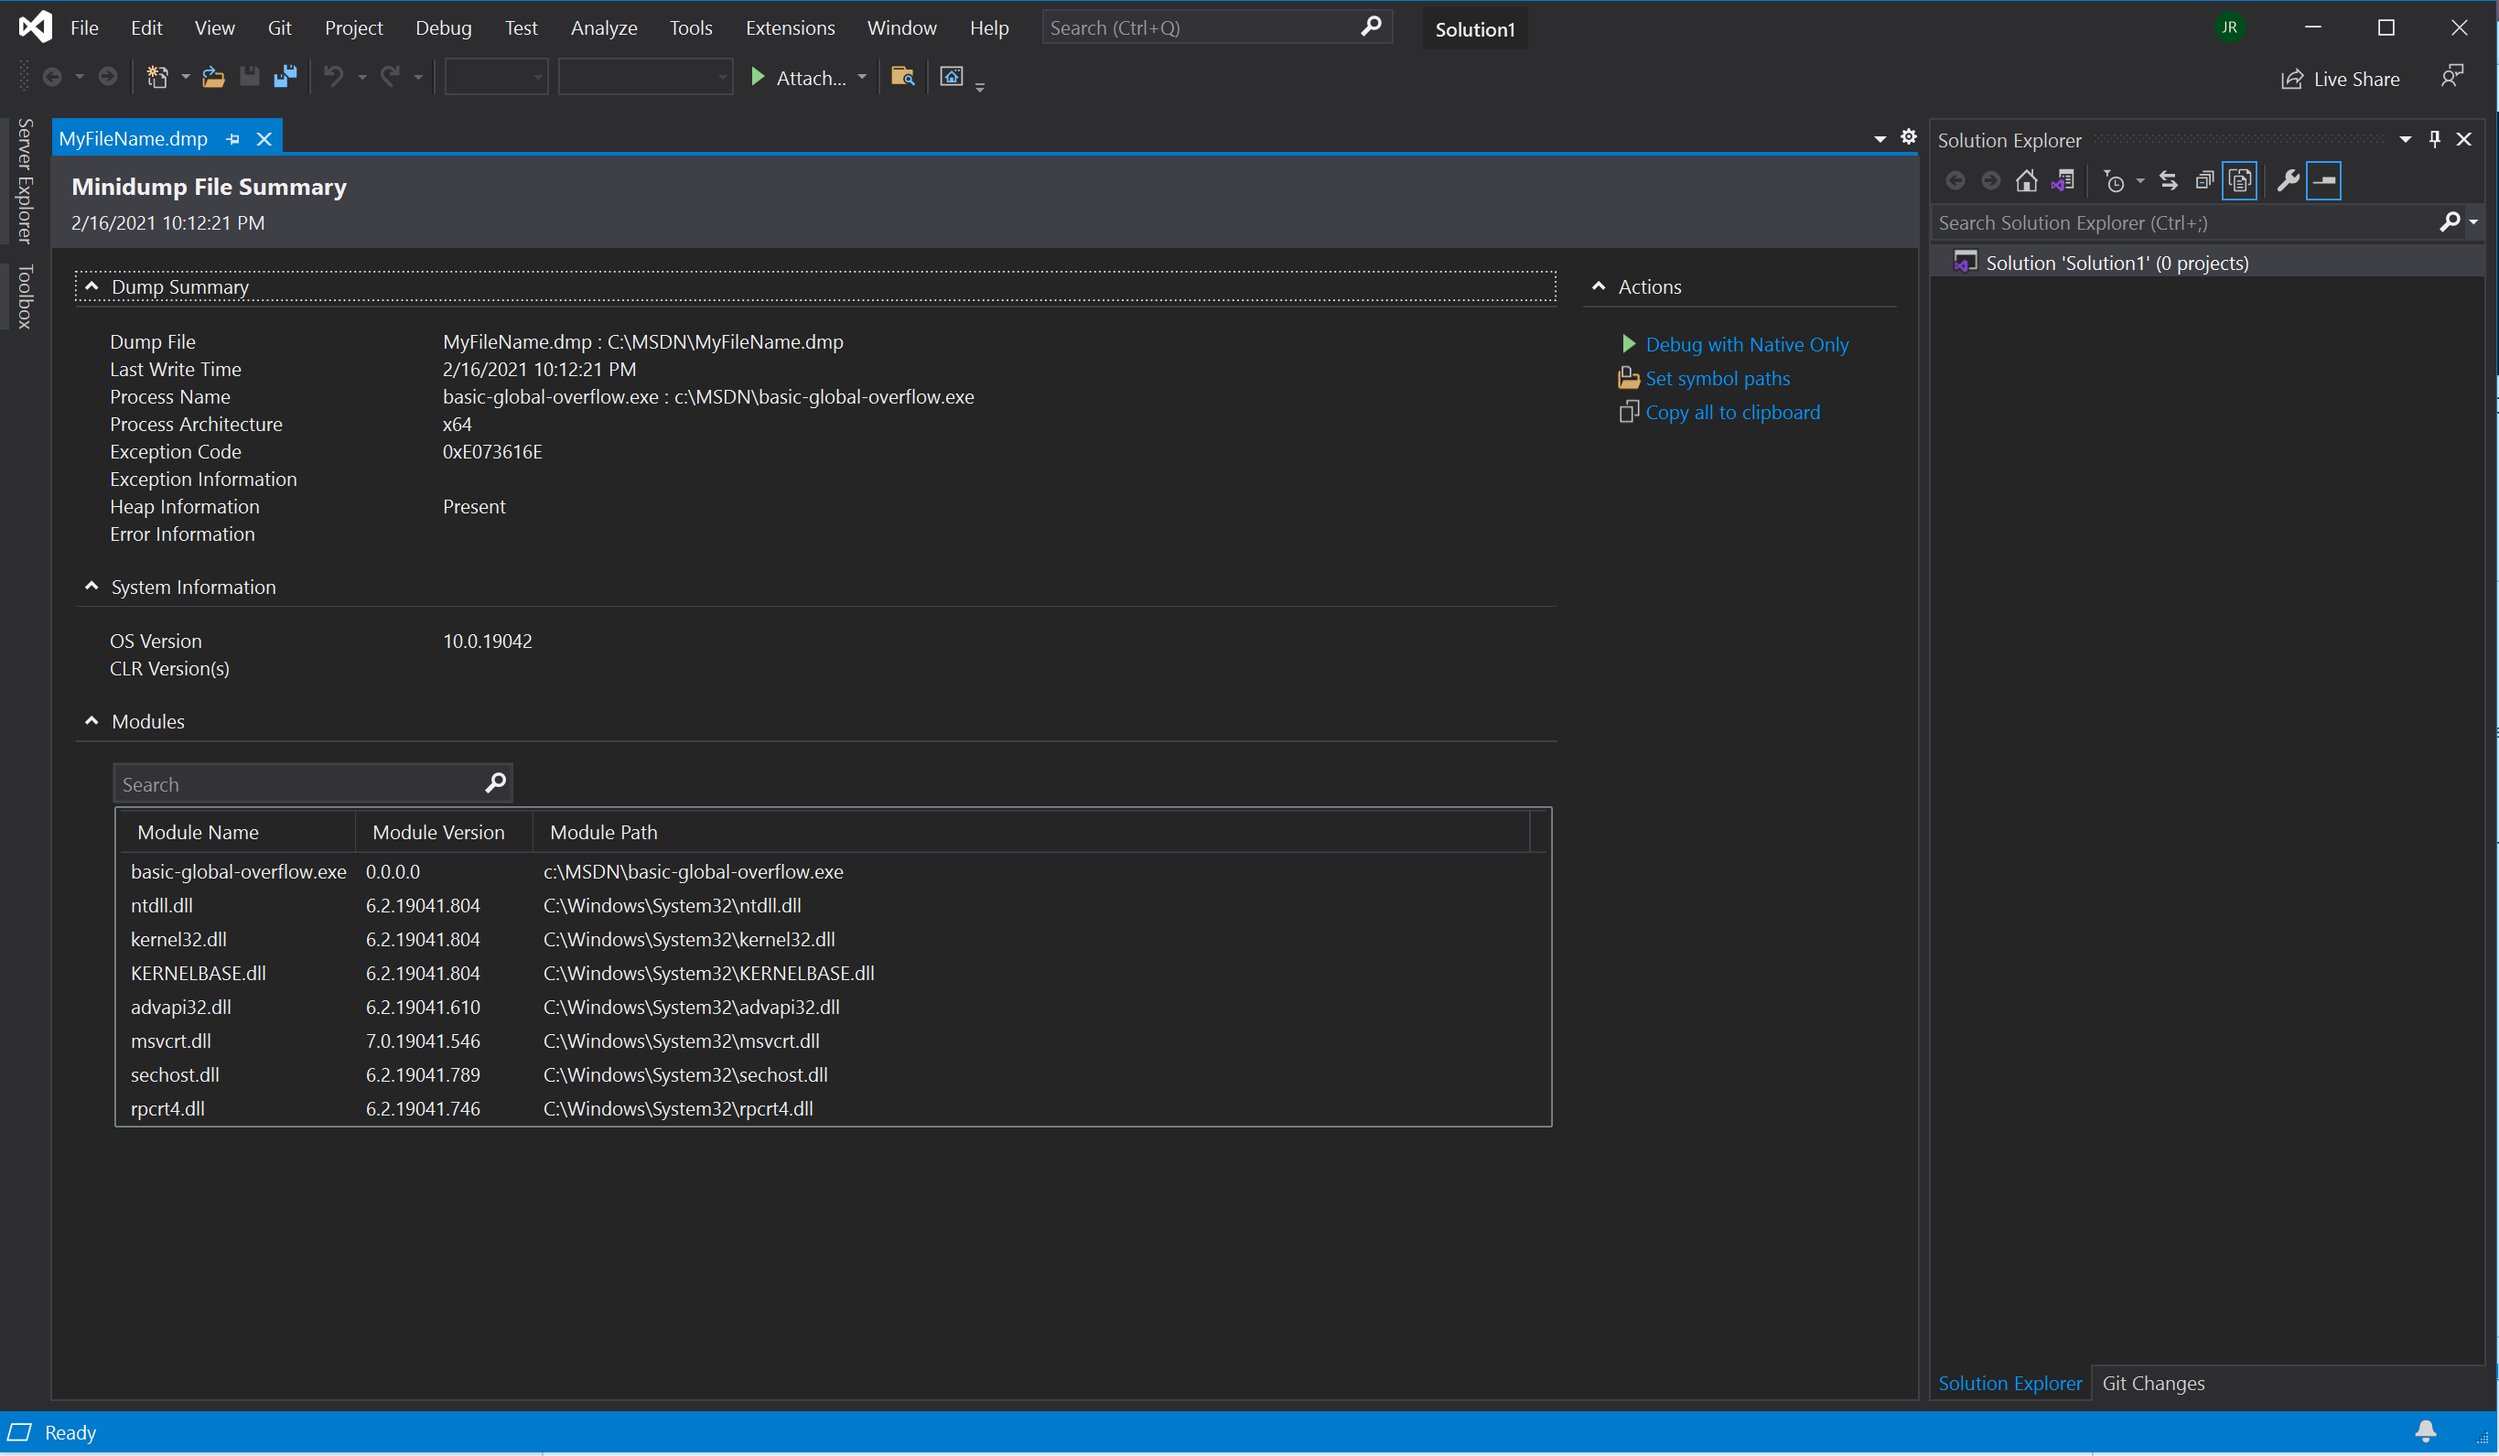
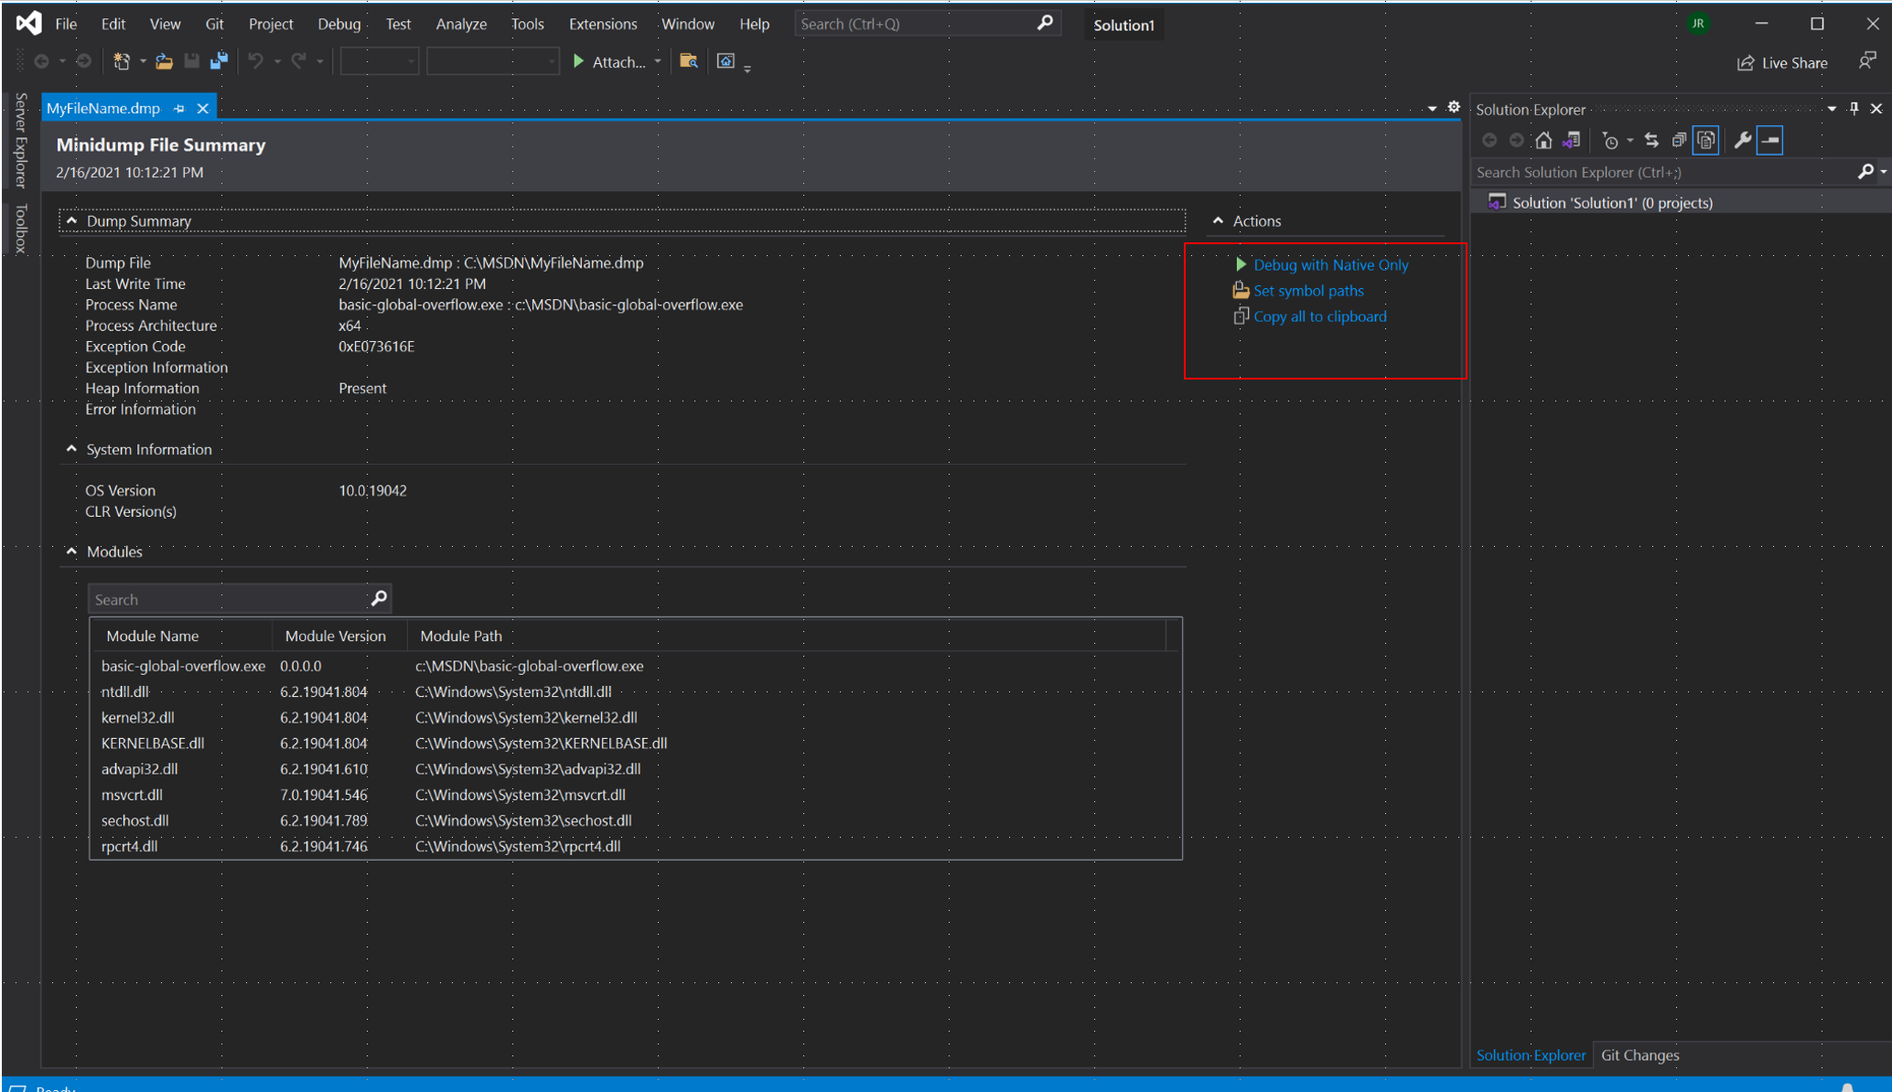
Processing Address Sanitizer dump file

Changed region(s): [[0.0, 0.0, 1.0, 1.0], [0.1857, 0.4338, 0.2166, 0.4648]]

diff --git a/docs/cpp/ASAN/asan-offline-address-sanitizer-crash-dumps.md b/docs/cpp/ASAN/asan-offline-address-sanitizer-crash-dumps.md
@@ -1,52 +1,94 @@
 # Address Sanitizer - Cloud or distributed testing
 
-## Overview - debugging off-line
+## Overview - new way to report a bug.
 
-We've made it possible to store a precisely diagnosed error, reported by the Address Sanitizer runtime, for post-mortem debugging in Visual Studio. You can capture a precisely diagnosed error and view it on another machine. 
+We've made it possible to store a precisely diagnosed, Address Sanitizer error. The errors reported by the Address Sanitizer runtime carry a large amount of context and may take a long time to reproduce once you find the required input data. Capturing the error for immediate post-mortem analysis, in Visual Studio, on another machine, is a critical time saver.
 
-**You can view precisely diagnosed Address Sanitizer bugs in the debugger IDE without having to copy huge data-sets, discovering lost data or finding machines that went off line.**
+**You can view precisely diagnosed Address Sanitizer bugs in the Visual Studio debugger IDE without having to rerun testing, copy huge data-sets, discover lost data or find machines that went off line.**
 
 When compiling `cl -fsanitize=address` the compiler driver (cl.exe) will automatically link a new static library with your application: vcasan.lib. This library has the optional functionality to create a new type of crash dump file upon encountering an exception from the Address Sanitizer. This functionality is enabled with an environment variable by simply typing the following on the command line: 
 
 **`set ASAN_SAVE_DUMPS=MyFileName.dmp`**
+  
+File name must have a suffix ".dmp" for Visual Studio naming conventions.
 
-Your testing automation could do this on remote machines before running your tests against code compiled with -fsanitize=address.
-
-If you would like to see further Cloud based customization please [provide feedback](https://aka.ms/feedback/suggest?space=62) that might help you take advantage of [Azure OneFuzz](https://www.microsoft.com/security/blog/2020/09/15/microsoft-onefuzz-framework-open-source-developer-tool-fix-bugs/).
+Your local or remote testing automation could execute this simple step, before running tests using your code compiled with -fsanitize=address.
 
 ### Errors - stored to a new dump file
 
-Once you set a file name in the environment variable **ASAN_SAVE_DUMPS** then upon error, your application will produce "MyFileName.dmpx" which is a [dump file](https://docs.microsoft.com/en-us/previous-versions/windows/desktop/proc_snap/export-a-process-snapshot-to-a-file) that can be displayed by using Visual Studio at a later date on another machine.
+Once you set a file name in the environment variable **ASAN_SAVE_DUMPS** then upon error, your application will produce "MyFileName.dmp" which is a [dump file](https://docs.microsoft.com/en-us/previous-versions/windows/desktop/proc_snap/export-a-process-snapshot-to-a-file) that can be displayed by using Visual Studio at a later date on another machine.
 
-**The .exe, .pdb and source code used to produce those, must match** for Visual Studio to display the precise Address Sanitizer error within the debugger IDE. As with normal debugging, displaying information, within the context of the original source code, Visual Studio requires [debugging symbols](https://docs.microsoft.com/en-us/windows/win32/dxtecharts/debugging-with-symbols) and [indexing source code](https://docs.microsoft.com/en-us/windows-hardware/drivers/debugger/source-indexing). 
+The .exe, .pdb and source code used to produce those, must match for Visual Studio to display the precise Address Sanitizer error within the debugger IDE. As with normal debugging, displaying information, within the context of the original source code, Visual Studio requires [debugging symbols](https://docs.microsoft.com/en-us/windows/win32/dxtecharts/debugging-with-symbols) and [indexing source code](https://docs.microsoft.com/en-us/windows-hardware/drivers/debugger/source-indexing).
 
-We provide a simple step-by-step example below.
+See the [source and symbols](#Source-and-symbols) section below.
 
 ## Example - build, test, and analyze
 
-Assume you have machines A, B and C. You build on machine B, you run on machine C and then you analyze failures on machine A. The errors are reported against source line and column numbers in your source code. The call stack is displayed with a set of symbols produced from that [same source code](#Source-and-symbols).
+Assume you have machines A, B and C. You build on machine B, you run on machine C and then you analyze failures on machine A. The errors are reported against source line and column numbers in your source code. The call stack is displayed with a set of symbols from a .PDB file produced from that [exact version of source code](#Source-and-symbols).
 
-The following steps take you through a workflow that involves three (3) different machines.
+The following steps are for local or distributed scenarios that lead to creating a .dmp file and viewing that [Address Sanitizer dump file](#View-AddressSanitizer-.dmp-files), off-line.
+### Steps - locally produced .dmp
 
-## Command line to build
+-  Build.
+-  Test the (.exe, .pdb).
+-  Copy .dmp file to the build directory.
+-  Open a .dmp file with the paired .pdb, in the same directory.
 
-## Command line copy to a test machine
+### Steps - distributed system producing a .dmp
 
-## Command line to copy results for viewing on another machine
+- Build and [post process the PDB](#Source-and-symbols) for [source indexing data blocks](https://docs.microsoft.com/en-us/windows/win32/debug/source-server-and-source-indexing).
+- Copy the atomic pair of (.exe, .pdb) to the test machine and run tests.
+- Write the atomic pairs of (.pdb, .dmp) to the bug-reporting database.
+- Visual Studio opens a .dmp file with the paired .pdb, in the same directory. 
 
-## View the remote error in Visual Studio
+Note: The VS2019 machine must have access to GitHub or the internal "\\\Machine\share" where your source "was indexed to".
 
-![snapshot](.\MEDIA\asan-DMP-file-open.PNG)
+## View Address Sanitizer .dmp files
+
+Insure the debugger IDE will be able to get to your .PDB and source.
+
+Open Visual Studio and select **Continue without code**.
+
+Then simply click **File->Open->File** and make sure the file name suffix is **.dmp**
+
+It really is that simple! Consider the red high lights:
+
+![asan-open-crash-dump](.\MEDIA\asan-open-crash-dump.png)
+
+This will result in the following screen which needs one more step, where the IDE lines up symbols and source.
+
+Inside the red high light, click on the green arrow labeled **Native debug**.
+
+![open snapshot](.\MEDIA\asan-DMP-file-open.PNG)
+
+After clicking **Native Debug** the debugger IDE will display the dump file with the new Asan meta-data. 
+
+![symbolized snapshot](.\MEDIA\asan-view-crash-meta-data.PNG)
+
+**NOTE:**
+
+ - The Address Sanitizer diagnostic is super imposed on the source used to build the tested .EXE
+ - THe normal command line output is presented in the Output pane
 
 ## Source and symbols
 
-Source server enables a client to retrieve the **exact version** of the source files that were used to build an application. Because the source code for a module can change between versions and over a course of years, it is important to look at the source code as it existed when the version of the module in question was built.
+[Source server](https://docs.microsoft.com/en-us/windows/win32/debug/source-server-and-source-indexing) (see Data Blocsk section) enables a client to retrieve the **exact version** of the source files that were used to build an application. Because the source code for an executable or DLL can change between versions and over a course of years, it is important to look at the source code as it existed when the version of the code was built. That version has the memory safety bug the Address Sanitizer caught.
 
-Source server retrieves the appropriate files from source control. To use source server, the application must have been [source indexed](https://docs.microsoft.com/en-us/windows/win32/debug/source-server-and-source-indexing) 
+While debugging an .EXE with the PDB, the debugger can use the embedded source server data block. It retrieves the appropriate files from source control that map to the fully qualified names that are automatically put in the PDB when compiling with /Zi. 
+
+To use source server, the application must have been "source indexed".  That common phrase just means **using pdbstr.exe to place a srcsrv data block in your .PDB**. See the Data Block section in [source indexed](https://docs.microsoft.com/en-us/windows/win32/debug/source-server-and-source-indexing). 
 
 - See [the steps indexing sources and publishing symbols](https://docs.microsoft.com/en-us/azure/devops/pipelines/tasks/build/index-sources-publish-symbols?view=azure-devops)
 
  - See [how to specify symbols and source code for the debugger IDE will to open  your crash dump from the Address Sanitizer](https://docs.microsoft.com/en-us/visualstudio/debugger/specify-symbol-dot-pdb-and-source-files-in-the-visual-studio-debugger?view=vs-2019)
+ 
+For external documentation see:
+
+- [**Source indexing with Git**](https://gist.github.com/baldurk/c6feb31b0305125c6d1a)
+
+- [A guide to easier debugging](https://www.codeproject.com/articles/115125/source-indexing-and-symbol-servers-a-guide-to-easi)
+
+- [Source Indexing is Underused Awesomeness](https://randomascii.wordpress.com/2011/11/11/source-indexing-is-underused-awesomeness/)
 
 
 ## Error reporting to a file - under the covers
@@ -54,5 +96,3 @@ Source server retrieves the appropriate files from source control. To use source
 When your .EXE encounters a runtime error, the Address Sanitizer runtime throws different exceptions. When run from the command line the Address Sanitizer runtime will with throw an exception and produce textual error information on the console.
 
 When run under the Visual Studio debugger, the new debugger IDE displays that error diagnostic, super imposed on your source code. That's due to new meta-data written to the heap. The exceptions the runtime throw, are implemented with an exception record data structure. That record points to the meta-data in the heap and the new IDE can parse it. That same information can also be preserved in a simple memory dump to a binary file for later ingestion by the new debugger IDE.
-
-

diff --git a/docs/cpp/ASAN/asan-top-level.md b/docs/cpp/ASAN/asan-top-level.md
@@ -112,13 +112,13 @@ Address Sanitizer is integrated with the Visual Studio IDE. You can turn on the 
 
 ![asan-project-system](MEDIA/asan-project-system.PNG)
 
-**To build** from the IDE, we ask you to knowingly opt out of [these incompatible flags](./asan-incompatible-flags.md):
+**To build** from the IDE, we ask you to **knowingly opt out of [these incompatible flags](./asan-incompatible-flags.md)** (in case you are adding to an existing .projx):
 
 -  turn OFF [edit and continue](https://docs.microsoft.com/en-us/visualstudio/debugger/how-to-enable-and-disable-edit-and-continue?view=vs-2019)
 - turn OFF [runtime checks]( )
 - turn OFF [incremental linking]( )
 
-To build and run under the debugger, **hit F5**. The following VS window will result:
+To build and run the debugger, **hit F5**. The following VS window will result:
 
 ![global-overflow-IDE](MEDIA/asan-F5-global-buffer-overflow.PNG)
 
